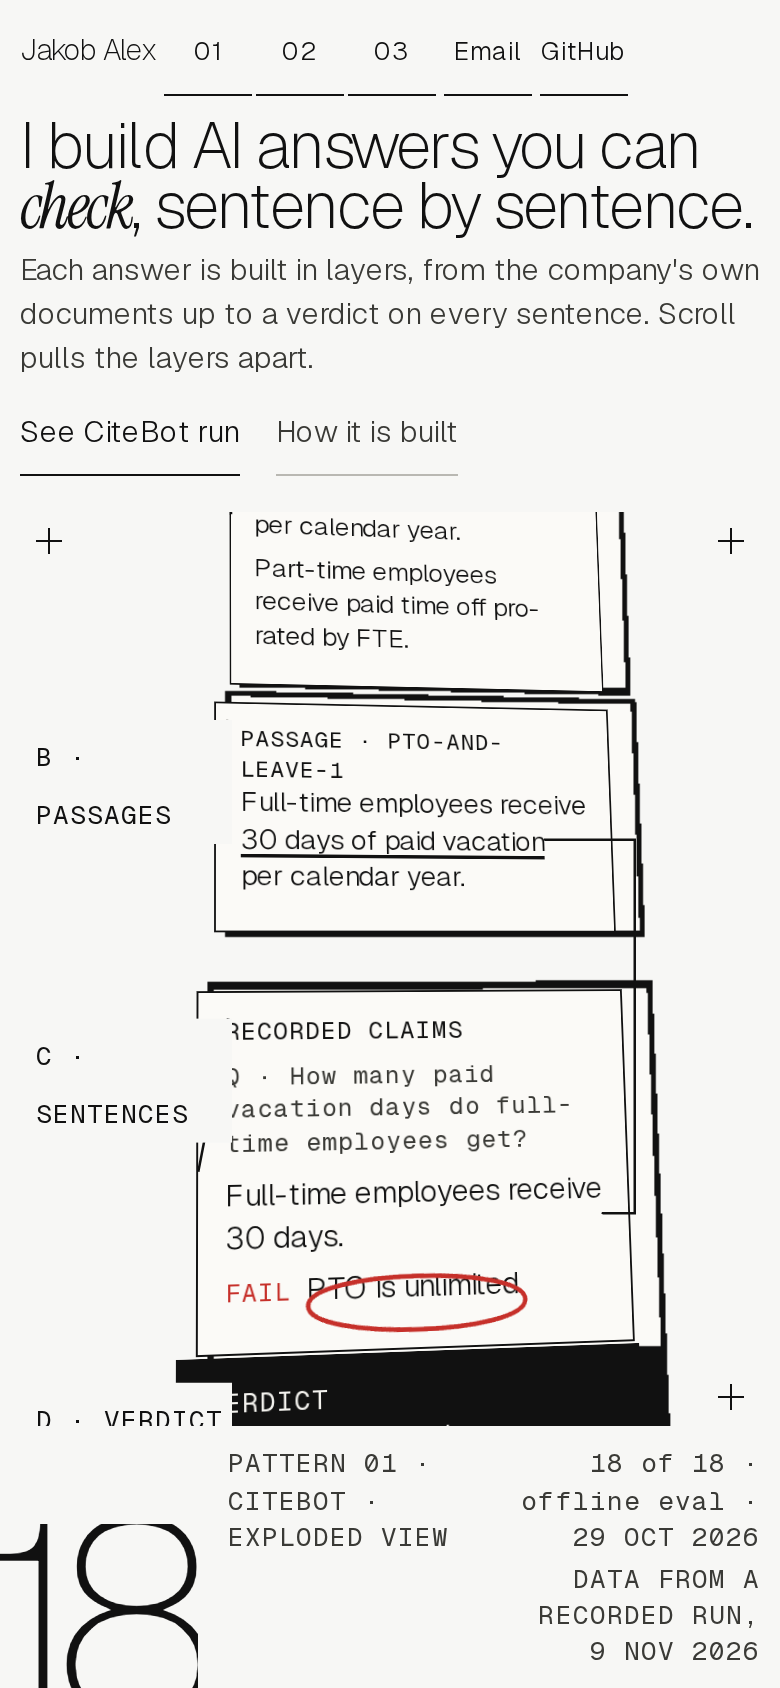
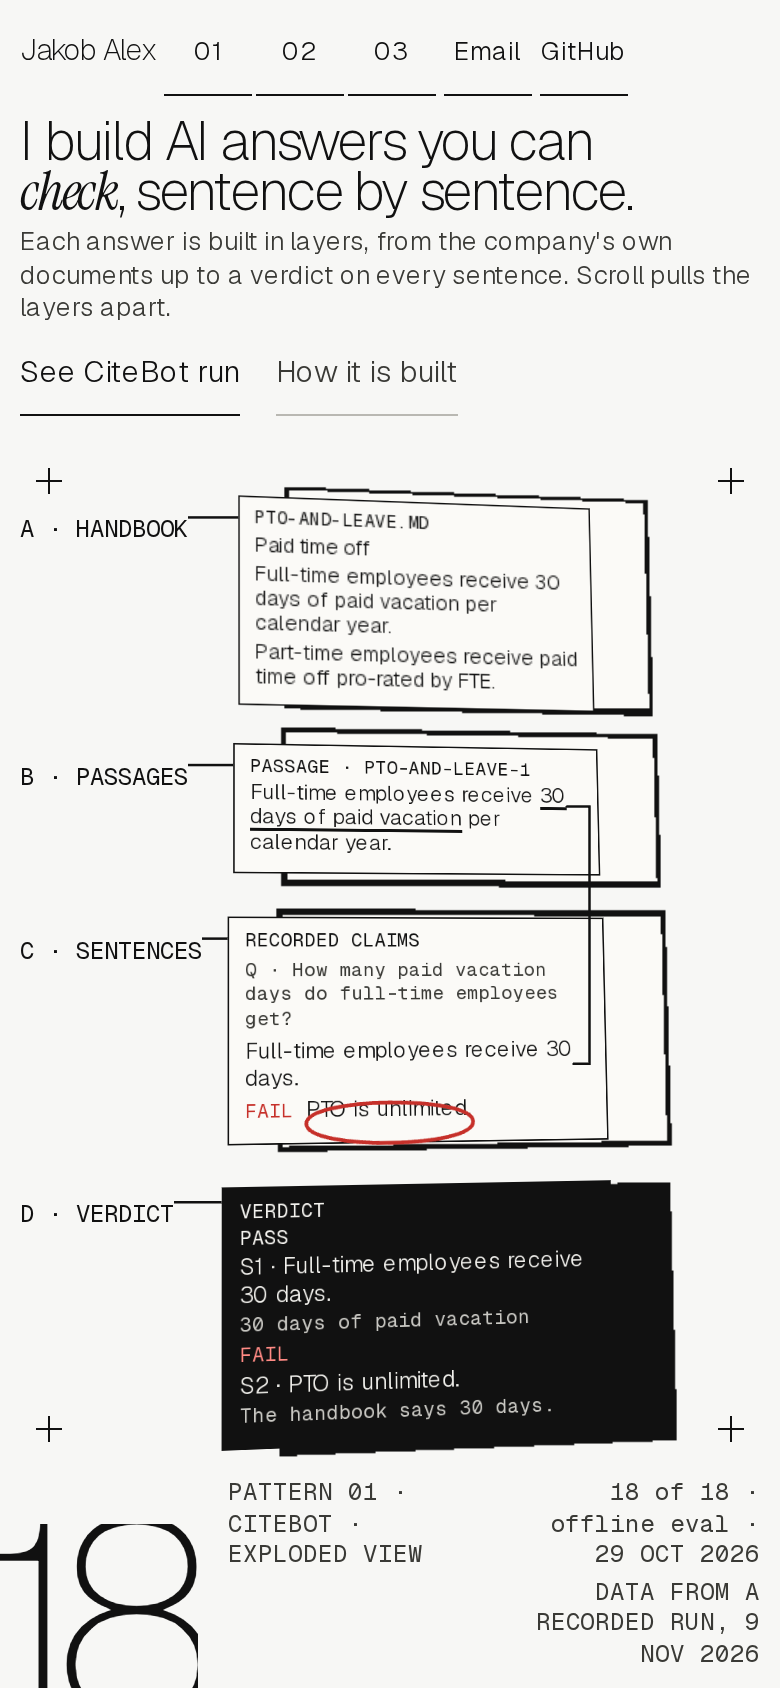
Separate the phone sheets and keep labels and threads in frame.
Each rail label stays on one line outside its sheet, scroll 0 shows a gap between the four planes, and the verdict evidence line stays fully on the sheet.

diff --git a/components/schnitt-scene.ts b/components/schnitt-scene.ts
@@ -46,9 +46,12 @@ function placeCallouts(stage: HTMLElement) {
     const width = 132;
     const room = box.left - root.left;
     if (stage.clientWidth < 700) {
-      const y = box.top + box.height * 0.08 - root.top;
-      callout.style.transform = `translate(4px, ${y}px)`;
-      parts.push(`<path d="M 104 ${y.toFixed(1)} L ${(pr.left - root.left).toFixed(1)} ${(pr.top + pr.height / 2 - root.top).toFixed(1)}" />`);
+      const y = box.top - root.top;
+      callout.style.transform = `translate(0px, ${y}px)`;
+      const labelRight = callout.offsetWidth;
+      const sheetLeft = box.left - root.left;
+      const yLine = y + Math.min(11, callout.offsetHeight / 2);
+      parts.push(`<path d="M ${labelRight.toFixed(1)} ${yLine.toFixed(1)} L ${Math.max(labelRight + 4, sheetLeft).toFixed(1)} ${yLine.toFixed(1)}" />`);
     } else if (room < width + 18) {
       const lx = Math.max(4, box.left - root.left);
       const ly = box.top - root.top - 34;
@@ -73,11 +76,13 @@ function placeThread(stage: HTMLElement) {
   const root = stage.getBoundingClientRect();
   const a = from.getBoundingClientRect();
   const b = to.getBoundingClientRect();
-  const x1 = a.right - root.left;
   const y1 = a.top + a.height / 2 - root.top;
   const y2 = b.top + b.height / 2 - root.top;
-  const gutter = Math.min(stage.clientWidth - 10, Math.max(a.right, b.right) - root.left + 16);
-  const x2 = b.right - root.left;
+  const phone = stage.clientWidth < 700;
+  const limit = stage.clientWidth - 6;
+  const x1 = phone ? Math.min(a.right - root.left, limit) : a.right - root.left;
+  const x2 = phone ? Math.min(b.right - root.left, limit) : b.right - root.left;
+  const gutter = phone ? Math.min(limit, Math.max(x1, x2) + 8) : Math.min(stage.clientWidth - 10, Math.max(a.right, b.right) - root.left + 16);
   svg.setAttribute("viewBox", `0 0 ${Math.max(1, stage.clientWidth)} ${Math.max(1, stage.clientHeight)}`);
   path.setAttribute("d", `M ${x1.toFixed(1)} ${y1.toFixed(1)} L ${gutter.toFixed(1)} ${y1.toFixed(1)} L ${gutter.toFixed(1)} ${y2.toFixed(1)} L ${x2.toFixed(1)} ${y2.toFixed(1)}`);
   stage.dataset.ties = "1";
@@ -122,8 +127,8 @@ export function mountSchnittScene(stage: HTMLElement, canvas: HTMLCanvasElement)
     const narrow = stage.clientWidth < 700;
     const sheet = new CSS3DObject(slot);
     sheet.rotation.order = "YXZ";
-    sheet.rotation.y = narrow ? Math.PI / 24 : Math.PI / 10;
-    sheet.rotation.x = narrow ? -Math.PI / 22 : -Math.PI / 7;
+    sheet.rotation.y = narrow ? Math.PI / 28 : Math.PI / 10;
+    sheet.rotation.x = narrow ? -Math.PI / 36 : -Math.PI / 7;
     rig.add(sheet);
 
     const fill = new MeshBasicMaterial({
@@ -175,23 +180,54 @@ export function mountSchnittScene(stage: HTMLElement, canvas: HTMLCanvasElement)
 
     const sample = cards[0];
     const rawH = sample?.cssH ?? 140;
-    const fit = phone ? 0.92 : 1;
+    const fit = 1;
     const planeH = rawH * fit;
-    const gap0 = phone ? 88 : planeH * 1.04;
-    const gap1 = phone ? 176 : planeH * 1.62;
+    const gap0 = planeH * 1.04;
+    const gap1 = planeH * 1.62;
     const gap = gap0 + progress * (gap1 - gap0);
-    const x = phone ? 36 : width * 0.08;
+    const x = phone ? 0 : width * 0.08;
 
-    cards.forEach((item, index) => {
-      const y = (1.5 - index) * gap;
-      item.sheet.scale.set(fit, fit, fit);
-      item.card.scale.set(fit, fit, 1);
-      item.edge?.scale.set(fit, fit, 1);
-      item.rig.position.set(x, y, (index - 1.5) * (10 + progress * 48));
-    });
-
-    camera.position.set(dist * 0.04, dist * 0.02 + progress * 12, dist);
-    look.set(x * 0.35, progress * 8, 0);
+    if (phone) {
+      const tilt = 6;
+      let pad = 12 + progress * 10;
+      let fitPhone = 1;
+      const span = () => cards.reduce((sum, item) => sum + item.cssH * fitPhone + tilt, 0) + pad * (cards.length - 1);
+      if (span() > height - 6) {
+        const cssSum = cards.reduce((sum, item) => sum + item.cssH, 0);
+        const room = height - 20 - tilt * cards.length - 12 * (cards.length - 1);
+        fitPhone = Math.min(1, room / Math.max(cssSum, 1));
+        pad = 12;
+      }
+      const used = span();
+      const inset = Math.max(4, (height - used) / 2);
+      const overflow = inset + used - (height - 12);
+      const lift = Math.max(0, Math.min(overflow, inset - 4));
+      let cursor = inset;
+      cards.forEach((item, index) => {
+        const box = item.cssH * fitPhone + tilt;
+        const center = cursor + (item.cssH * fitPhone) / 2;
+        cursor += box + pad;
+        item.sheet.scale.set(fitPhone, fitPhone, fitPhone);
+        item.card.scale.set(fitPhone, fitPhone, 1);
+        item.edge?.scale.set(fitPhone, fitPhone, 1);
+        const sheetW = item.cssW * fitPhone;
+        const worldX = 132 + sheetW / 2 - width / 2;
+        const worldY = height / 2 - center + lift;
+        item.rig.position.set(worldX, worldY, (index - 1.5) * (6 + progress * 18));
+      });
+      camera.position.set(0, 0, dist);
+      look.set(0, 0, 0);
+    } else {
+      cards.forEach((item, index) => {
+        const y = (1.5 - index) * gap;
+        item.sheet.scale.set(fit, fit, fit);
+        item.card.scale.set(fit, fit, 1);
+        item.edge?.scale.set(fit, fit, 1);
+        item.rig.position.set(x, y, (index - 1.5) * (10 + progress * 48));
+      });
+      camera.position.set(dist * 0.04, dist * 0.02 + progress * 12, dist);
+      look.set(x * 0.35, progress * 8, 0);
+    }
     camera.lookAt(look);
     scene.updateMatrixWorld(true);
     renderer.render(scene, camera);

diff --git a/app/schnitt.css b/app/schnitt.css
@@ -522,18 +522,19 @@ html[data-schnitt="flat"] .plane-slot {
   }
 
   .display {
-    font-size: 2rem;
+    font-size: 1.7rem;
     line-height: 0.95;
     max-width: 12em;
   }
 
   .support {
-    font-size: 15px;
-    margin-top: 6px;
+    font-size: 13px;
+    line-height: 1.25;
+    margin-top: 4px;
   }
 
   .actions {
-    margin-top: 4px;
+    margin-top: 2px;
   }
 
   .schnitt-copy {
@@ -558,11 +559,35 @@ html[data-schnitt="flat"] .plane-slot {
     z-index: 6;
     padding-left: 6.5rem;
     background: transparent;
+    line-height: 1.25;
   }
 
   .sheet-title,
   .body {
-    font-size: 16px;
+    font-size: 14px;
+    line-height: 1.2;
+  }
+
+  .verdict-row {
+    flex-direction: column;
+    gap: 1px;
+  }
+
+  .evidence {
+    display: block;
+    white-space: nowrap;
+  }
+
+  .sheet-title {
+    margin: 2px 0 4px;
+  }
+
+  .body {
+    margin: 0 0 3px;
+  }
+
+  .question {
+    margin: 3px 0 4px;
   }
 
   .leader-note {
@@ -575,28 +600,62 @@ html[data-schnitt="flat"] .plane-slot {
   .mark,
   .evidence,
   .schnitt-foot {
-    font-size: 13px;
+    font-size: 12px;
+    line-height: 1.3;
   }
 
-  .file {
-    overflow-wrap: anywhere;
+  .leader-name {
+    white-space: nowrap;
+    letter-spacing: 0;
   }
 
   .sheet {
+    box-sizing: border-box;
+    padding: 7px 10px 8px;
     transform: matrix(0.96, 0.22, -0.18, 0.94, 0, 0);
   }
 
+  html[data-schnitt="gl"] .plane-slot {
+    display: block;
+    width: auto;
+  }
+
   html[data-schnitt="gl"] .sheet {
-    width: 14.5rem;
+    width: 15.25rem;
   }
 
-  .plane-slot {
-    width: min(100%, 22rem);
+  .schnitt-stage[data-gl="ready"] .callout {
+    width: max-content;
+    max-width: none;
+    padding: 0;
+    background: transparent;
   }
 
-  .callout {
-    max-width: 6.4rem;
-    background: var(--paper);
+  html[data-schnitt="flat"] .stack {
+    gap: 40px;
+    padding: 12px 0 8px;
+  }
+
+  html[data-schnitt="flat"] .plane-slot {
+    display: flex;
+    flex-direction: column;
+    align-items: flex-start;
+    gap: 4px;
+    width: 100%;
+  }
+
+  html[data-schnitt="flat"] .sheet {
+    width: min(100%, 16.5rem);
+    transform: matrix(0.98, 0.08, -0.06, 0.98, 0, 0);
+  }
+
+  .schnitt-stage {
+    position: relative;
+    z-index: 2;
+  }
+
+  .numeral {
+    z-index: 1;
   }
 }
 
